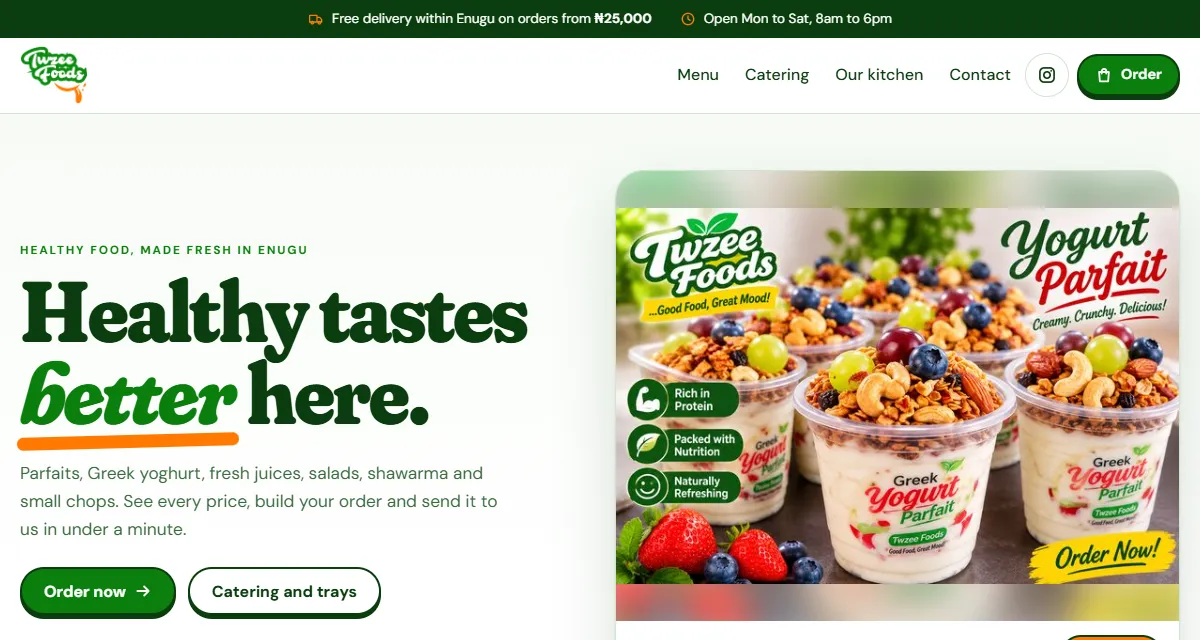
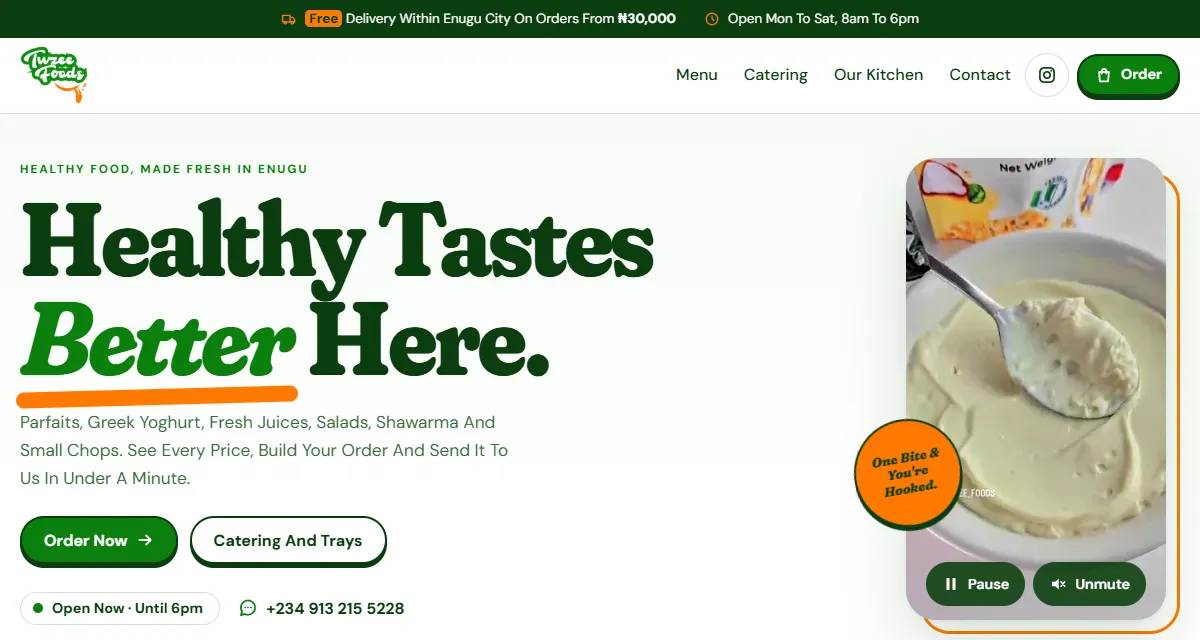
Instagram and email links in the hero and contact panel; content updates
- Email, GitHub, LinkedIn and Instagram links under the hero and in the
  contact panel (they were in the previous version's hero)
- Twzee Foods: free delivery from 30,000 naira; new live screenshot and a
  poster frame without the old banner
- NeuroScan: the training/validation split keeps each patient's scans together
- Tallybox: video captioned as a test business

diff --git a/projects/neuroscan-ai/index.html b/projects/neuroscan-ai/index.html
@@ -90,7 +90,7 @@
         <div class="feature-grid"><div class="feat" data-reveal><h3>Four-stage classification</h3><p>EfficientNet-B0, fine-tuned with transfer learning on 224×224 MRI slices.</p></div><div class="feat" data-reveal><h3>Grad-CAM heatmaps</h3><p>Each prediction comes with a heatmap of the regions that most influenced it.</p></div><div class="feat" data-reveal><h3>Admin and Doctor roles</h3><p>JWT sign-in. Admins issue single-use registration codes, and can deactivate or reactivate doctor accounts.</p></div><div class="feat" data-reveal><h3>Patient records and MRI upload</h3><p>Doctors add patients, upload scans and see each scan's prediction with its heatmap.</p></div><div class="feat" data-reveal><h3>Transfers with history</h3><p>Admins move patients between doctors, and every transfer is recorded as an audit trail.</p></div><div class="feat" data-reveal><h3>Dashboards</h3><p>The admin dashboard counts doctors, patients, scans, unused codes and transfers; each doctor sees their patients broken down by predicted stage.</p></div></div></section>
       <section id="build" class="case-section" aria-labelledby="build-h"><h2 id="build-h">How it's built</h2>
         <p class="section-note">Open any part for the detail.</p>
-        <div class="accordion"><details class="acc" open><summary>Data</summary><div class="acc-body"><p>OASIS Alzheimer's MRI (Kaggle): 44,355 training images (80/20 split) and a separate test set of 46,184.</p></div></details><details class="acc" open><summary>Model</summary><div class="acc-body"><p>EfficientNet-B0 with transfer learning (timm): 4,012,672 parameters fine-tuned, 224×224 input.</p></div></details><details class="acc"><summary>Training</summary><div class="acc-body"><p>Class-weighted cross-entropy, light augmentation, Adam 1e-4, batch 32, 25 epochs: about 119 hours on a laptop with no GPU (training, not inference).</p></div></details><details class="acc"><summary>Grad-CAM</summary><div class="acc-body"><p>For Mild and Moderate cases the heatmaps concentrated around the hippocampus, medial temporal lobe and ventricles: consistent with known Alzheimer's regions, but not clinically validated.</p></div></details><details class="acc"><summary>Web app</summary><div class="acc-body"><p>Flask REST API with separate modules for auth, admin, doctors and patients; Flask-JWT-Extended and Flask-SQLAlchemy over SQLite; an HTML, CSS and JavaScript front end. The trained model is downloaded from Hugging Face when the app starts, and the app is deployed on Render.</p></div></details></div></section>
+        <div class="accordion"><details class="acc" open><summary>Data</summary><div class="acc-body"><p>OASIS Alzheimer's MRI (Kaggle): 44,355 training images and a separate test set of 46,184. The 80/20 training and validation split keeps each patient's scans together, so no patient appears on both sides.</p></div></details><details class="acc" open><summary>Model</summary><div class="acc-body"><p>EfficientNet-B0 with transfer learning (timm): 4,012,672 parameters fine-tuned, 224×224 input.</p></div></details><details class="acc"><summary>Training</summary><div class="acc-body"><p>Class-weighted cross-entropy, light augmentation, Adam 1e-4, batch 32, 25 epochs: about 119 hours on a laptop with no GPU (training, not inference).</p></div></details><details class="acc"><summary>Grad-CAM</summary><div class="acc-body"><p>For Mild and Moderate cases the heatmaps concentrated around the hippocampus, medial temporal lobe and ventricles: consistent with known Alzheimer's regions, but not clinically validated.</p></div></details><details class="acc"><summary>Web app</summary><div class="acc-body"><p>Flask REST API with separate modules for auth, admin, doctors and patients; Flask-JWT-Extended and Flask-SQLAlchemy over SQLite; an HTML, CSS and JavaScript front end. The trained model is downloaded from Hugging Face when the app starts, and the app is deployed on Render.</p></div></details></div></section>
       
       <section id="results" class="case-section" aria-labelledby="results-h">
         <h2 id="results-h">Results</h2>
@@ -130,7 +130,7 @@
       </figure>
     </li></ul></section>
       <section id="challenges" class="case-section" aria-labelledby="challenges-h"><h2 id="challenges-h">Challenges and solutions</h2>
-        <div class="challenges"><div class="challenge" data-reveal><h3>No GPU for training</h3><p>I used transfer learning on a small pretrained network, EfficientNet-B0 with about 4 million parameters, and kept training to 25 epochs. Even so, training took about 119 hours on a laptop CPU.</p></div><div class="challenge" data-reveal><h3>A score that looked too good</h3><p>The model reached 98.66% on validation but 77.35% on the separate test set, which is 88.5% NonDemented. I report both numbers, treat the gap as a warning about the split rather than a verdict on the idea, and plan stratified splitting next.</p></div><div class="challenge" data-reveal><h3>A model too large to ship with the code</h3><p>The trained weights live on Hugging Face, and the app downloads them when it starts, so the deployed app on Render stays small.</p></div></div></section>
+        <div class="challenges"><div class="challenge" data-reveal><h3>No GPU for training</h3><p>I used transfer learning on a small pretrained network, EfficientNet-B0 with about 4 million parameters, and kept training to 25 epochs. Even so, training took about 119 hours on a laptop CPU.</p></div><div class="challenge" data-reveal><h3>A score that looked too good</h3><p>The model reached 98.66% on validation but 77.35% on the separate test set, which is 88.5% NonDemented. The training split keeps each patient's scans together, so the gap is not one patient leaking into both sides. I report both numbers, treat the gap as a warning about the split rather than a verdict on the idea, and plan stratified splitting next.</p></div><div class="challenge" data-reveal><h3>A model too large to ship with the code</h3><p>The trained weights live on Hugging Face, and the app downloads them when it starts, so the deployed app on Render stays small.</p></div></div></section>
       <section id="outcome" class="case-section" aria-labelledby="outcome-h"><h2 id="outcome-h">Outcome and status</h2><p>Final-year project for my B.Sc. in Computer Science (2026). The web app is deployed and the trained model is published on Hugging Face.</p><p><strong>It is a research prototype: not clinically validated and not a medical device.</strong></p>
         <h3 class="sub-h">Next steps</h3><ul class="tags tags--loose"><li>Stratified splitting</li><li>GPU training</li><li>Local Nigerian hospital data</li><li>Clinical validation</li><li>Longitudinal tracking</li><li>A lightweight offline or mobile version</li></ul>
         <div class="actions"><a class="btn btn-primary" href="https://neuroscan-ai-yjp8.onrender.com/" target="_blank" rel="noopener">Open the web app<span class="sr-only"> for NeuroScan AI (opens in a new tab)</span><svg class="icon" width="18" height="18" viewBox="0 0 24 24" fill="none" stroke="currentColor" stroke-width="1.75" stroke-linecap="round" stroke-linejoin="round" aria-hidden="true" focusable="false"><path d="M7 7h10v10"/><path d="M7 17 17 7"/></svg></a><a class="btn btn-ghost" href="https://huggingface.co/ChimdiAzie/neuroscan-alzheimer-model" target="_blank" rel="noopener">Model on Hugging Face<span class="sr-only"> for NeuroScan AI (opens in a new tab)</span><svg class="icon" width="18" height="18" viewBox="0 0 24 24" fill="none" stroke="currentColor" stroke-width="1.75" stroke-linecap="round" stroke-linejoin="round" aria-hidden="true" focusable="false"><path d="M7 7h10v10"/><path d="M7 17 17 7"/></svg></a></div></section>

diff --git a/projects/twzee-foods/index.html b/projects/twzee-foods/index.html
@@ -61,7 +61,7 @@
       <dl class="facts"><div><dt>Role</dt><dd>Designer and developer</dd></div><div><dt>For</dt><dd>Twzee Foods, Enugu</dd></div><div><dt>Status</dt><dd>Live</dd></div><div><dt>Stack</dt><dd>HTML, CSS, JavaScript, Cloudflare</dd></div></dl>
     </div>
     <div class="wrap case-media"><figure class="case-video" style="view-transition-name: shot-twzee-foods">
-      <div class="video-frame"><video controls playsinline preload="metadata" poster="../../assets/img/twzee-poster.webp" width="1914" height="894" data-fallback="../../assets/img/twzee-home.webp" data-fallback-alt="Twzee Foods home page: the headline Healthy tastes better here, with Order now and Catering and trays buttons beside a yoghurt parfait photo.">
+      <div class="video-frame"><video controls playsinline preload="metadata" poster="../../assets/img/twzee-poster.webp" width="1914" height="894" data-fallback="../../assets/img/twzee-home.webp" data-fallback-alt="Twzee Foods home page: the headline Healthy tastes better here, Order now and Catering and trays buttons, and a banner offering free delivery within Enugu City on orders from ₦30,000.">
         <source src="../../assets/videos/twzee.mp4" type="video/mp4">
         Your browser can't play this video. <a href="../../assets/videos/twzee.mp4">Download the Twzee Foods demo (MP4)</a>.
       </video></div>
@@ -80,7 +80,7 @@
         <ul class="checklist"><li><svg class="icon" width="18" height="18" viewBox="0 0 24 24" fill="none" stroke="currentColor" stroke-width="1.75" stroke-linecap="round" stroke-linejoin="round" aria-hidden="true" focusable="false"><path d="M20 6 9 17l-5-5"/></svg><span>Show the full menu with photos, prices, sizes and extras on a phone.</span></li><li><svg class="icon" width="18" height="18" viewBox="0 0 24 24" fill="none" stroke="currentColor" stroke-width="1.75" stroke-linecap="round" stroke-linejoin="round" aria-hidden="true" focusable="false"><path d="M20 6 9 17l-5-5"/></svg><span>Turn a basket into a ready-written WhatsApp message.</span></li><li><svg class="icon" width="18" height="18" viewBox="0 0 24 24" fill="none" stroke="currentColor" stroke-width="1.75" stroke-linecap="round" stroke-linejoin="round" aria-hidden="true" focusable="false"><path d="M20 6 9 17l-5-5"/></svg><span>Let the owner change the menu and prices by editing one file.</span></li><li><svg class="icon" width="18" height="18" viewBox="0 0 24 24" fill="none" stroke="currentColor" stroke-width="1.75" stroke-linecap="round" stroke-linejoin="round" aria-hidden="true" focusable="false"><path d="M20 6 9 17l-5-5"/></svg><span>Load quickly on mobile data.</span></li></ul></section>
       <section id="role" class="case-section" aria-labelledby="role-h"><h2 id="role-h">My role</h2><p>I designed and built the site: the layout and visual design, the menu and ordering flow, the photo pipeline and the hosting.</p></section>
       <section id="features" class="case-section" aria-labelledby="features-h"><h2 id="features-h">Main features</h2>
-        <div class="feature-grid"><div class="feat" data-reveal><h3>Menu by category</h3><p>Photos, prices, sizes, combos and optional add-ons, with category chips to jump between sections.</p></div><div class="feat" data-reveal><h3>Order basket</h3><p>Delivery or pickup, with a flat ₦1,500 delivery fee within Enugu City, free delivery on larger orders and a bar showing how close the order is.</p></div><div class="feat" data-reveal><h3>Order on WhatsApp</h3><p>&quot;Send my order&quot; opens WhatsApp with the order written out. Nothing is sent until the customer presses send.</p></div><div class="feat" data-reveal><h3>Live opening hours</h3><p>An &quot;Open now&quot; or &quot;Closed&quot; badge for Monday to Saturday, 8am to 6pm, always in Nigerian time.</p></div><div class="feat" data-reveal><h3>Catering and trays</h3><p>Event packs and a custom food tray, with a quick way to ask for a quote.</p></div></div></section>
+        <div class="feature-grid"><div class="feat" data-reveal><h3>Menu by category</h3><p>Photos, prices, sizes, combos and optional add-ons, with category chips to jump between sections.</p></div><div class="feat" data-reveal><h3>Order basket</h3><p>Delivery or pickup: a flat ₦1,500 delivery fee within Enugu City, free delivery on orders from ₦30,000, and a bar showing how close the order is.</p></div><div class="feat" data-reveal><h3>Order on WhatsApp</h3><p>&quot;Send my order&quot; opens WhatsApp with the order written out. Nothing is sent until the customer presses send.</p></div><div class="feat" data-reveal><h3>Live opening hours</h3><p>An &quot;Open now&quot; or &quot;Closed&quot; badge for Monday to Saturday, 8am to 6pm, always in Nigerian time.</p></div><div class="feat" data-reveal><h3>Catering and trays</h3><p>Event packs and a custom food tray, with a quick way to ask for a quote.</p></div></div></section>
       <section id="build" class="case-section" aria-labelledby="build-h"><h2 id="build-h">How it's built</h2>
         <p class="section-note">Open any part for the detail.</p>
         <div class="accordion"><details class="acc" open><summary>Code</summary><div class="acc-body"><p>Plain HTML, CSS and JavaScript, with no framework and no build step.</p></div></details><details class="acc" open><summary>Menu data</summary><div class="acc-body"><p>One commented file, js/menu-data.js, holds every product: name, description, price or sizes (each size can have its own photo), extras, a required choice, &quot;Ask us&quot; items, and items hidden until they get a price.</p></div></details><details class="acc"><summary>Photos</summary><div class="acc-body"><p>A Python script (Pillow) makes 400, 800 and 1200 px WebP copies of every photo, plus 5:4 card versions that show the whole picture on a soft blurred background, so posters with text are never cropped.</p></div></details><details class="acc"><summary>Hosting</summary><div class="acc-body"><p>Cloudflare (static assets on Workers) with security headers, deployed from GitHub.</p></div></details></div></section>
@@ -109,7 +109,7 @@
     </li>
     <li class="shot shot--wide" data-reveal>
       <figure>
-        <a class="shot-link" href="../../assets/img/twzee-home.webp" aria-label="Open full-size image: The home page on a laptop."><img src="../../assets/img/twzee-home.webp" width="1200" height="640" alt="Twzee Foods home page on a laptop: Healthy tastes better here, with Order now and Catering and trays buttons." loading="lazy" decoding="async"></a>
+        <a class="shot-link" href="../../assets/img/twzee-home.webp" aria-label="Open full-size image: The home page on a laptop."><img src="../../assets/img/twzee-home.webp" width="1200" height="640" alt="Twzee Foods home page on a laptop: Healthy tastes better here, with Order now and Catering and trays buttons, and the free-delivery banner." loading="lazy" decoding="async"></a>
         <figcaption>The home page on a laptop.</figcaption>
       </figure>
     </li></ol></section>

diff --git a/index.html b/index.html
@@ -65,6 +65,12 @@
         <li><svg class="icon" width="18" height="18" viewBox="0 0 24 24" fill="none" stroke="currentColor" stroke-width="1.75" stroke-linecap="round" stroke-linejoin="round" aria-hidden="true" focusable="false"><path d="M20 10c0 5-5.5 10.2-7.4 11.8a1 1 0 0 1-1.2 0C9.5 20.2 4 15 4 10a8 8 0 0 1 16 0"/><circle cx="12" cy="10" r="3"/></svg>Nigeria</li>
         <li><a href="CV.pdf" download="Chimdiume-Azie-CV.pdf"><svg class="icon" width="18" height="18" viewBox="0 0 24 24" fill="none" stroke="currentColor" stroke-width="1.75" stroke-linecap="round" stroke-linejoin="round" aria-hidden="true" focusable="false"><path d="M21 15v4a2 2 0 0 1-2 2H5a2 2 0 0 1-2-2v-4"/><path d="m7 10 5 5 5-5"/><path d="M12 15V3"/></svg>Download CV</a></li>
       </ul>
+      <ul class="profile-links profile-links--hero" aria-label="Email and profiles">
+    <li><a href="https://mail.google.com/mail/?view=cm&fs=1&to=chimdiazie2022%40gmail.com" target="_blank" rel="noopener"><svg class="icon" width="18" height="18" viewBox="0 0 24 24" fill="none" stroke="currentColor" stroke-width="1.75" stroke-linecap="round" stroke-linejoin="round" aria-hidden="true" focusable="false"><rect width="20" height="16" x="2" y="4" rx="2"/><path d="m22 7-8.97 5.7a1.94 1.94 0 0 1-2.06 0L2 7"/></svg><span>Email</span><span class="sr-only"> (opens Gmail in a new tab)</span></a></li>
+    <li><a href="https://github.com/Achimdi" target="_blank" rel="noopener"><svg class="icon" width="18" height="18" viewBox="0 0 24 24" fill="none" stroke="currentColor" stroke-width="1.75" stroke-linecap="round" stroke-linejoin="round" aria-hidden="true" focusable="false"><path d="M15 22v-4a4.8 4.8 0 0 0-1-3.5c3 0 6-2 6-5.5.08-1.25-.27-2.48-1-3.5.28-1.15.28-2.35 0-3.5 0 0-1 0-3 1.5-2.64-.5-5.36-.5-8 0C6 2 5 2 5 2c-.3 1.15-.3 2.35 0 3.5A5.4 5.4 0 0 0 4 9c0 3.5 3 5.5 6 5.5-.39.49-.68 1.05-.85 1.65-.17.6-.22 1.23-.15 1.85v4"/><path d="M9 18c-4.51 2-5-2-7-2"/></svg><span>GitHub</span><span class="sr-only"> Achimdi (opens in a new tab)</span></a></li>
+    <li><a href="https://www.linkedin.com/in/chimdiume-azie-73a477448/" target="_blank" rel="noopener"><svg class="icon" width="18" height="18" viewBox="0 0 24 24" fill="none" stroke="currentColor" stroke-width="1.75" stroke-linecap="round" stroke-linejoin="round" aria-hidden="true" focusable="false"><path d="M16 8a6 6 0 0 1 6 6v7h-4v-7a2 2 0 0 0-2-2 2 2 0 0 0-2 2v7h-4v-7a6 6 0 0 1 6-6z"/><rect width="4" height="12" x="2" y="9"/><circle cx="4" cy="4" r="2"/></svg><span>LinkedIn</span><span class="sr-only"> chimdiume-azie (opens in a new tab)</span></a></li>
+    <li><a href="https://www.instagram.com/azie_web/" target="_blank" rel="noopener"><svg class="icon" width="18" height="18" viewBox="0 0 24 24" fill="none" stroke="currentColor" stroke-width="1.75" stroke-linecap="round" stroke-linejoin="round" aria-hidden="true" focusable="false"><rect width="20" height="20" x="2" y="2" rx="5"/><path d="M16 11.37A4 4 0 1 1 12.63 8 4 4 0 0 1 16 11.37z"/><path d="M17.5 6.5h.01"/></svg><span>Instagram</span><span class="sr-only"> @azie_web (opens in a new tab)</span></a></li>
+  </ul>
     </div>
     <div class="hero-visual">
       <div class="portrait-frame">
@@ -196,6 +202,12 @@
         <button class="btn btn-ghost copy-btn" type="button" data-copy="chimdiazie2022@gmail.com"><span class="copy-default"><svg class="icon" width="18" height="18" viewBox="0 0 24 24" fill="none" stroke="currentColor" stroke-width="1.75" stroke-linecap="round" stroke-linejoin="round" aria-hidden="true" focusable="false"><rect width="14" height="14" x="8" y="8" rx="2"/><path d="M4 16c-1.1 0-2-.9-2-2V4c0-1.1.9-2 2-2h10c1.1 0 2 .9 2 2"/></svg><span>chimdiazie2022@gmail.com</span></span><span class="copy-done"><svg class="icon" width="18" height="18" viewBox="0 0 24 24" fill="none" stroke="currentColor" stroke-width="1.75" stroke-linecap="round" stroke-linejoin="round" aria-hidden="true" focusable="false"><path d="M20 6 9 17l-5-5"/></svg><span>Copied to clipboard</span></span></button><span class="sr-only" role="status" data-copy-status></span>
         <a class="text-link" href="contact/">More ways to reach me <svg class="icon" width="16" height="16" viewBox="0 0 24 24" fill="none" stroke="currentColor" stroke-width="1.75" stroke-linecap="round" stroke-linejoin="round" aria-hidden="true" focusable="false"><path d="M5 12h14"/><path d="m12 5 7 7-7 7"/></svg></a>
       </div>
+      <ul class="profile-links profile-links--cta" aria-label="Email and profiles">
+    <li><a href="https://mail.google.com/mail/?view=cm&fs=1&to=chimdiazie2022%40gmail.com" target="_blank" rel="noopener"><svg class="icon" width="18" height="18" viewBox="0 0 24 24" fill="none" stroke="currentColor" stroke-width="1.75" stroke-linecap="round" stroke-linejoin="round" aria-hidden="true" focusable="false"><rect width="20" height="16" x="2" y="4" rx="2"/><path d="m22 7-8.97 5.7a1.94 1.94 0 0 1-2.06 0L2 7"/></svg><span>Email</span><span class="sr-only"> (opens Gmail in a new tab)</span></a></li>
+    <li><a href="https://github.com/Achimdi" target="_blank" rel="noopener"><svg class="icon" width="18" height="18" viewBox="0 0 24 24" fill="none" stroke="currentColor" stroke-width="1.75" stroke-linecap="round" stroke-linejoin="round" aria-hidden="true" focusable="false"><path d="M15 22v-4a4.8 4.8 0 0 0-1-3.5c3 0 6-2 6-5.5.08-1.25-.27-2.48-1-3.5.28-1.15.28-2.35 0-3.5 0 0-1 0-3 1.5-2.64-.5-5.36-.5-8 0C6 2 5 2 5 2c-.3 1.15-.3 2.35 0 3.5A5.4 5.4 0 0 0 4 9c0 3.5 3 5.5 6 5.5-.39.49-.68 1.05-.85 1.65-.17.6-.22 1.23-.15 1.85v4"/><path d="M9 18c-4.51 2-5-2-7-2"/></svg><span>GitHub</span><span class="sr-only"> Achimdi (opens in a new tab)</span></a></li>
+    <li><a href="https://www.linkedin.com/in/chimdiume-azie-73a477448/" target="_blank" rel="noopener"><svg class="icon" width="18" height="18" viewBox="0 0 24 24" fill="none" stroke="currentColor" stroke-width="1.75" stroke-linecap="round" stroke-linejoin="round" aria-hidden="true" focusable="false"><path d="M16 8a6 6 0 0 1 6 6v7h-4v-7a2 2 0 0 0-2-2 2 2 0 0 0-2 2v7h-4v-7a6 6 0 0 1 6-6z"/><rect width="4" height="12" x="2" y="9"/><circle cx="4" cy="4" r="2"/></svg><span>LinkedIn</span><span class="sr-only"> chimdiume-azie (opens in a new tab)</span></a></li>
+    <li><a href="https://www.instagram.com/azie_web/" target="_blank" rel="noopener"><svg class="icon" width="18" height="18" viewBox="0 0 24 24" fill="none" stroke="currentColor" stroke-width="1.75" stroke-linecap="round" stroke-linejoin="round" aria-hidden="true" focusable="false"><rect width="20" height="20" x="2" y="2" rx="5"/><path d="M16 11.37A4 4 0 1 1 12.63 8 4 4 0 0 1 16 11.37z"/><path d="M17.5 6.5h.01"/></svg><span>Instagram</span><span class="sr-only"> @azie_web (opens in a new tab)</span></a></li>
+  </ul>
     </div>
   </div>
 </section>

diff --git a/about/index.html b/about/index.html
@@ -120,6 +120,12 @@
         <button class="btn btn-ghost copy-btn" type="button" data-copy="chimdiazie2022@gmail.com"><span class="copy-default"><svg class="icon" width="18" height="18" viewBox="0 0 24 24" fill="none" stroke="currentColor" stroke-width="1.75" stroke-linecap="round" stroke-linejoin="round" aria-hidden="true" focusable="false"><rect width="14" height="14" x="8" y="8" rx="2"/><path d="M4 16c-1.1 0-2-.9-2-2V4c0-1.1.9-2 2-2h10c1.1 0 2 .9 2 2"/></svg><span>chimdiazie2022@gmail.com</span></span><span class="copy-done"><svg class="icon" width="18" height="18" viewBox="0 0 24 24" fill="none" stroke="currentColor" stroke-width="1.75" stroke-linecap="round" stroke-linejoin="round" aria-hidden="true" focusable="false"><path d="M20 6 9 17l-5-5"/></svg><span>Copied to clipboard</span></span></button><span class="sr-only" role="status" data-copy-status></span>
         <a class="text-link" href="../contact/">More ways to reach me <svg class="icon" width="16" height="16" viewBox="0 0 24 24" fill="none" stroke="currentColor" stroke-width="1.75" stroke-linecap="round" stroke-linejoin="round" aria-hidden="true" focusable="false"><path d="M5 12h14"/><path d="m12 5 7 7-7 7"/></svg></a>
       </div>
+      <ul class="profile-links profile-links--cta" aria-label="Email and profiles">
+    <li><a href="https://mail.google.com/mail/?view=cm&fs=1&to=chimdiazie2022%40gmail.com" target="_blank" rel="noopener"><svg class="icon" width="18" height="18" viewBox="0 0 24 24" fill="none" stroke="currentColor" stroke-width="1.75" stroke-linecap="round" stroke-linejoin="round" aria-hidden="true" focusable="false"><rect width="20" height="16" x="2" y="4" rx="2"/><path d="m22 7-8.97 5.7a1.94 1.94 0 0 1-2.06 0L2 7"/></svg><span>Email</span><span class="sr-only"> (opens Gmail in a new tab)</span></a></li>
+    <li><a href="https://github.com/Achimdi" target="_blank" rel="noopener"><svg class="icon" width="18" height="18" viewBox="0 0 24 24" fill="none" stroke="currentColor" stroke-width="1.75" stroke-linecap="round" stroke-linejoin="round" aria-hidden="true" focusable="false"><path d="M15 22v-4a4.8 4.8 0 0 0-1-3.5c3 0 6-2 6-5.5.08-1.25-.27-2.48-1-3.5.28-1.15.28-2.35 0-3.5 0 0-1 0-3 1.5-2.64-.5-5.36-.5-8 0C6 2 5 2 5 2c-.3 1.15-.3 2.35 0 3.5A5.4 5.4 0 0 0 4 9c0 3.5 3 5.5 6 5.5-.39.49-.68 1.05-.85 1.65-.17.6-.22 1.23-.15 1.85v4"/><path d="M9 18c-4.51 2-5-2-7-2"/></svg><span>GitHub</span><span class="sr-only"> Achimdi (opens in a new tab)</span></a></li>
+    <li><a href="https://www.linkedin.com/in/chimdiume-azie-73a477448/" target="_blank" rel="noopener"><svg class="icon" width="18" height="18" viewBox="0 0 24 24" fill="none" stroke="currentColor" stroke-width="1.75" stroke-linecap="round" stroke-linejoin="round" aria-hidden="true" focusable="false"><path d="M16 8a6 6 0 0 1 6 6v7h-4v-7a2 2 0 0 0-2-2 2 2 0 0 0-2 2v7h-4v-7a6 6 0 0 1 6-6z"/><rect width="4" height="12" x="2" y="9"/><circle cx="4" cy="4" r="2"/></svg><span>LinkedIn</span><span class="sr-only"> chimdiume-azie (opens in a new tab)</span></a></li>
+    <li><a href="https://www.instagram.com/azie_web/" target="_blank" rel="noopener"><svg class="icon" width="18" height="18" viewBox="0 0 24 24" fill="none" stroke="currentColor" stroke-width="1.75" stroke-linecap="round" stroke-linejoin="round" aria-hidden="true" focusable="false"><rect width="20" height="20" x="2" y="2" rx="5"/><path d="M16 11.37A4 4 0 1 1 12.63 8 4 4 0 0 1 16 11.37z"/><path d="M17.5 6.5h.01"/></svg><span>Instagram</span><span class="sr-only"> @azie_web (opens in a new tab)</span></a></li>
+  </ul>
     </div>
   </div>
 </section>

diff --git a/projects/index.html b/projects/index.html
@@ -118,6 +118,12 @@
         <button class="btn btn-ghost copy-btn" type="button" data-copy="chimdiazie2022@gmail.com"><span class="copy-default"><svg class="icon" width="18" height="18" viewBox="0 0 24 24" fill="none" stroke="currentColor" stroke-width="1.75" stroke-linecap="round" stroke-linejoin="round" aria-hidden="true" focusable="false"><rect width="14" height="14" x="8" y="8" rx="2"/><path d="M4 16c-1.1 0-2-.9-2-2V4c0-1.1.9-2 2-2h10c1.1 0 2 .9 2 2"/></svg><span>chimdiazie2022@gmail.com</span></span><span class="copy-done"><svg class="icon" width="18" height="18" viewBox="0 0 24 24" fill="none" stroke="currentColor" stroke-width="1.75" stroke-linecap="round" stroke-linejoin="round" aria-hidden="true" focusable="false"><path d="M20 6 9 17l-5-5"/></svg><span>Copied to clipboard</span></span></button><span class="sr-only" role="status" data-copy-status></span>
         <a class="text-link" href="../contact/">More ways to reach me <svg class="icon" width="16" height="16" viewBox="0 0 24 24" fill="none" stroke="currentColor" stroke-width="1.75" stroke-linecap="round" stroke-linejoin="round" aria-hidden="true" focusable="false"><path d="M5 12h14"/><path d="m12 5 7 7-7 7"/></svg></a>
       </div>
+      <ul class="profile-links profile-links--cta" aria-label="Email and profiles">
+    <li><a href="https://mail.google.com/mail/?view=cm&fs=1&to=chimdiazie2022%40gmail.com" target="_blank" rel="noopener"><svg class="icon" width="18" height="18" viewBox="0 0 24 24" fill="none" stroke="currentColor" stroke-width="1.75" stroke-linecap="round" stroke-linejoin="round" aria-hidden="true" focusable="false"><rect width="20" height="16" x="2" y="4" rx="2"/><path d="m22 7-8.97 5.7a1.94 1.94 0 0 1-2.06 0L2 7"/></svg><span>Email</span><span class="sr-only"> (opens Gmail in a new tab)</span></a></li>
+    <li><a href="https://github.com/Achimdi" target="_blank" rel="noopener"><svg class="icon" width="18" height="18" viewBox="0 0 24 24" fill="none" stroke="currentColor" stroke-width="1.75" stroke-linecap="round" stroke-linejoin="round" aria-hidden="true" focusable="false"><path d="M15 22v-4a4.8 4.8 0 0 0-1-3.5c3 0 6-2 6-5.5.08-1.25-.27-2.48-1-3.5.28-1.15.28-2.35 0-3.5 0 0-1 0-3 1.5-2.64-.5-5.36-.5-8 0C6 2 5 2 5 2c-.3 1.15-.3 2.35 0 3.5A5.4 5.4 0 0 0 4 9c0 3.5 3 5.5 6 5.5-.39.49-.68 1.05-.85 1.65-.17.6-.22 1.23-.15 1.85v4"/><path d="M9 18c-4.51 2-5-2-7-2"/></svg><span>GitHub</span><span class="sr-only"> Achimdi (opens in a new tab)</span></a></li>
+    <li><a href="https://www.linkedin.com/in/chimdiume-azie-73a477448/" target="_blank" rel="noopener"><svg class="icon" width="18" height="18" viewBox="0 0 24 24" fill="none" stroke="currentColor" stroke-width="1.75" stroke-linecap="round" stroke-linejoin="round" aria-hidden="true" focusable="false"><path d="M16 8a6 6 0 0 1 6 6v7h-4v-7a2 2 0 0 0-2-2 2 2 0 0 0-2 2v7h-4v-7a6 6 0 0 1 6-6z"/><rect width="4" height="12" x="2" y="9"/><circle cx="4" cy="4" r="2"/></svg><span>LinkedIn</span><span class="sr-only"> chimdiume-azie (opens in a new tab)</span></a></li>
+    <li><a href="https://www.instagram.com/azie_web/" target="_blank" rel="noopener"><svg class="icon" width="18" height="18" viewBox="0 0 24 24" fill="none" stroke="currentColor" stroke-width="1.75" stroke-linecap="round" stroke-linejoin="round" aria-hidden="true" focusable="false"><rect width="20" height="20" x="2" y="2" rx="5"/><path d="M16 11.37A4 4 0 1 1 12.63 8 4 4 0 0 1 16 11.37z"/><path d="M17.5 6.5h.01"/></svg><span>Instagram</span><span class="sr-only"> @azie_web (opens in a new tab)</span></a></li>
+  </ul>
     </div>
   </div>
 </section>

diff --git a/assets/css/site.css b/assets/css/site.css
@@ -151,6 +151,13 @@ main:focus { outline: none; }
 .hero-meta li, .hero-meta a { display: inline-flex; align-items: center; gap: 8px; }
 .hero-meta a { color: var(--text-2); min-height: 44px; }
 .hero-meta a:hover { color: var(--text); }
+.profile-links { display: flex; flex-wrap: wrap; gap: 8px; }
+.profile-links a { display: inline-flex; align-items: center; gap: 8px; min-height: 44px; padding: 8px 14px; border-radius: 999px; border: 1px solid var(--line); background: rgba(16, 24, 39, .55); color: var(--text); text-decoration: none; font-size: .9375rem; font-weight: 500; transition: border-color .18s, background-color .18s, color .18s; }
+.profile-links a:hover { color: var(--text); border-color: rgba(57, 139, 255, .6); background: rgba(57, 139, 255, .1); }
+.profile-links .icon { color: var(--text-2); transition: color .18s; }
+.profile-links a:hover .icon { color: #9CC5FF; }
+.profile-links--hero { margin-top: 16px; }
+.profile-links--cta { grid-column: 1 / -1; padding-top: 24px; border-top: 1px solid rgba(170, 183, 202, .16); }
 .hero-visual { position: relative; justify-self: center; width: min(100%, 440px); }
 .portrait-frame { position: relative; border-radius: 32px; padding: 1px; background: linear-gradient(160deg, rgba(57, 139, 255, .75), rgba(152, 117, 255, .55) 40%, rgba(170, 183, 202, .1) 75%); box-shadow: 0 40px 80px -40px rgba(57, 139, 255, .45), 0 30px 60px -30px rgba(0, 0, 0, .9); }
 .portrait-frame::before { content: ""; position: absolute; inset: -18%; z-index: -1; background: radial-gradient(closest-side, rgba(152, 117, 255, .32), rgba(57, 139, 255, .12) 55%, transparent); }
@@ -177,6 +184,7 @@ main:focus { outline: none; }
   .hero-copy .lead { order: 4; margin-top: 32px; }
   .hero-copy .actions { order: 5; }
   .hero-meta { order: 6; }
+  .profile-links--hero { order: 7; }
   .hero-tags { justify-content: flex-start; }
 }
 @media (min-width: 1024px) {

diff --git a/projects/tallybox/index.html b/projects/tallybox/index.html
@@ -65,7 +65,7 @@
         <source src="../../assets/videos/tallybox.mp4" type="video/mp4">
         Your browser can't play this video. <a href="../../assets/videos/tallybox.mp4">Download the Tallybox demo (MP4)</a>.
       </video></div>
-      <figcaption>Demo: registering, signing in as an owner, and the dashboard, orders, items and reports.</figcaption>
+      <figcaption>Demo on a test business: registering, signing in as an owner, and the dashboard, orders, items and reports. Names in the video are blurred.</figcaption>
     </figure></div>
   </header>
 

diff --git a/TODO.md b/TODO.md
@@ -4,7 +4,7 @@ Nothing in this list appears on the site. Each item is missing evidence, a decis
 
 ## Evidence still missing
 
-- [ ] **NeuroScan: is the train/validation split by patient?** OASIS has many slices per person. If slices from one patient appear in both training and validation, the 98.66% is inflated. Confirm how the 80/20 split was made.
+- [x] **NeuroScan: the train/validation split keeps each patient's scans together** (confirmed by you). The case study now says so.
 - [ ] **NeuroScan: macro-F1 and per-class recall.** Calculated from the counts in `assets/img/confusion-matrix.webp`. Check them against your notebook before publishing anything:
 
   | Class | Test images | Recall | Precision | F1 |
@@ -17,7 +17,8 @@ Nothing in this list appears on the site. Each item is missing evidence, a decis
   Macro-F1 is 0.34 and balanced accuracy is 40.4%. Overall accuracy is 77.35%, which matches the site.
 - [ ] **NeuroScan: GitHub repo is private.** The case study says so. If you make https://github.com/Achimdi/neuroscan-ai public, add `{ label: 'GitHub', url: 'https://github.com/Achimdi/neuroscan-ai', github: true }` to its `links` in `src/data.mjs`, remove `repoNote`, and rebuild.
 - [ ] **Twzee Foods: usage numbers or owner feedback.** Orders per week, visits, or a short quote from the owner. Only if you have them in writing.
-- [ ] **Tallybox: real users.** The demo video shows a business with real-looking sales (its name, the owner and staff names are blurred). If it is a real customer, its name, how long it has used Tallybox, or a line from the owner would be strong evidence. Only with their permission.
+- [x] **Tallybox demo business** is a test business (confirmed by you). The video caption now says "Demo on a test business".
+- [ ] **Tallybox: real users.** If a real business starts using Tallybox, its name, how long it has used it, or a line from the owner would be strong evidence. Only with their permission.
 
 ## Please confirm
 
@@ -28,7 +29,8 @@ Nothing in this list appears on the site. Each item is missing evidence, a decis
 
 ## Found while checking your other sites
 
-- [ ] **Twzee Foods free-delivery threshold.** The banner at the top of the live site says free delivery from ₦25,000, but the ordering code (`js/menu-data.js`, `DELIVERY.freeOver`) uses ₦30,000. The portfolio avoids quoting a number until this is fixed.
+- [x] **Twzee Foods free delivery is ₦30,000.** The live site and its code agree, and the portfolio now says ₦30,000. The laptop screenshot was retaken from the live site.
+- [ ] **Twzee demo video still shows the old ₦25,000 banner** in its first few seconds (recorded on 21 Nov). The poster now uses a frame without it. Re-record the video if you want it to match exactly.
 
 ## Media
 
